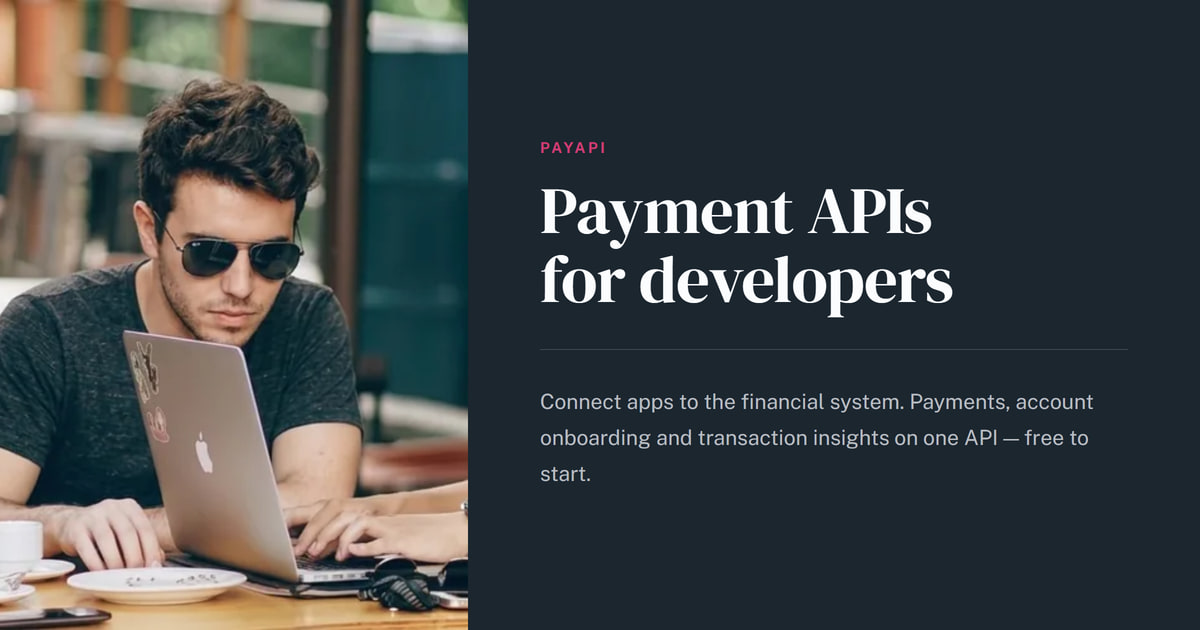
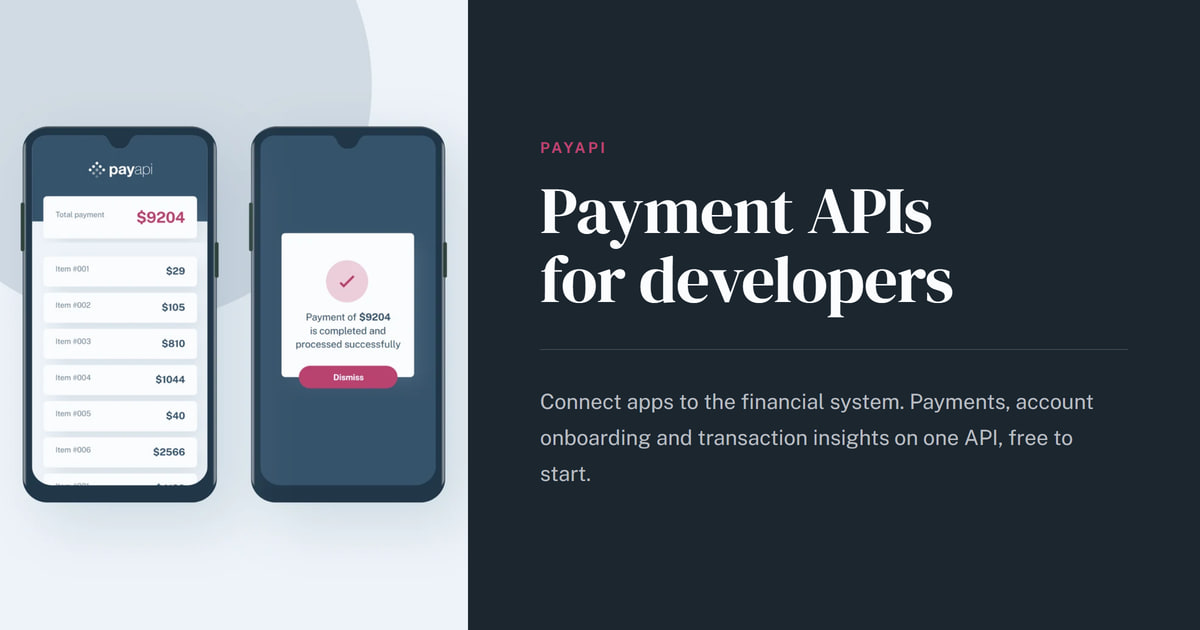
Refactor code structure for improved readability and maintainability

diff --git a/src/lib/metadata.ts b/src/lib/metadata.ts
@@ -7,7 +7,7 @@ const images = [
     url: "/opengraph-image.jpg",
     width: 1200,
     height: 630,
-    alt: "Three teammates working on a laptop, beside the headline “Payment APIs for developers”.",
+    alt: "Two phones showing the PayAPI checkout, an itemised payment total and a completed payment, beside the headline “Payment APIs for developers”.",
   },
 ];
 

diff --git a/README.md b/README.md
@@ -14,81 +14,6 @@ A solution to the [PayAPI multi-page website challenge on Frontend Mentor](https
 - TypeScript
 - Tailwind CSS
 
-## Notes
-
-**Every number came out of the design file, not a screenshot.** The `.fig` was parsed offline,
-so each spacing value, type size, fill and corner radius is the design's own. The four pages
-land within 2px of the design's total height at 375, 768 and 1440 — three of the twelve
-measurements are exact.
-
-**One container rule reproduces all three frames.** `max-w-297.5 px-6 md:px-10` gives 327 at
-375, 688 at 768 and 1110 from 1190 up. The max-width carries the padding, which is the part
-that is easy to get wrong: capping at the design's 1110 content width leaves 1030 once the
-40px gutters are subtracted.
-
-**Contrast was fixed by the minimum deviation that passes.** Seven of the design's ink/backdrop
-pairs fail WCAG AA — the muted body copy at 3.57:1, the field underline at 2.32:1, the
-unchecked checkbox at 1.48:1. Each was solved by holding hue and saturation and moving only
-lightness until the ratio cleared, so the palette still reads as the original. The checkbox
-also gained a 1px border, because a fill alone cannot carry a 3:1 boundary at that tone.
-
-**The backdrop for that sum is the decoration, not the page.** The muted ink is measured
-against the page tinted by the 15% disc behind it, `#d2dbe3`, not the bare `#edf3f8`; on the
-home page the disc sits behind the hero line and, at 768, behind the whole header. An
-automated audit cannot catch this — it reads background colour from ancestors, and the disc
-is an absolutely-positioned sibling — so every text box overlapping a disc is composited and
-scored directly. That is what puts the muted ink at `#51626f`: 4.50:1 over the disc, 5.64:1
-off it.
-
-**Availability in the pricing table is encoded twice.** An unavailable row is muted ink _and_
-a check mark whose stroke opacity is zero — the design keeps the node and hides it. Rendering
-that as colour alone would leave the state invisible to anyone who cannot see it, so the icon
-is genuinely absent and each row carries visually-hidden "included" / "not included" text.
-
-**Motion is CSS, with no animation library.** Section blocks rise on
-`animation-timeline: view()` and the decorative discs drift, both behind
-`prefers-reduced-motion: no-preference` and `@supports (animation-timeline: view())`, so a
-browser without view timelines renders the finished state rather than a blank box. Nothing
-animates on a hero, and the reveals move `translate` only — a fading `opacity` gets sampled
-mid-range by an auditor and reads as a contrast failure.
-
-**The statistics count once, on first sight.** A scroll-linked timeline is the wrong tool for
-a counter: it runs the number backwards when you scroll up, and re-runs it every time the
-block passes. So the count is an ordinary timed animation over a registered `@property` and a
-CSS counter, armed by a one-shot `IntersectionObserver` that disconnects on its first hit.
-Until it fires — and for anyone with JavaScript off or reduced motion on — the number renders
-at its final value, so nothing is ever missing.
-
-**The code sample's font is a 3.2 KB subset.** Roboto Mono is used for exactly one card, so
-only the 39 glyphs that block needs are self-hosted, and it is not preloaded because the card
-is below the fold on every breakpoint.
-
-**Forms validate on the client and do not post anywhere.** Errors are derived during render so
-they clear as you type, the first invalid control takes focus on submit, and the alert and
-status regions are keyed so a repeated identical message is announced again rather than
-swallowed.
-
-**Known deviations from the design, all deliberate:**
-
-- The hero phone sits 4px right of its drawn position. It is centred in the 445px column the
-  rest of the layout uses, which is a rule rather than a one-off offset.
-- The dark band's body copy wraps to six lines at 375px where the design shows five. The
-  design's own text box is 327px wide and the string cannot fit five lines at that width, so
-  the browser is right and the Figma box is stale.
-- The tablet page labels the third About block "Our Business", duplicating the second. Desktop
-  and mobile both say "The Culture", which is what ships.
-- The tablet contact aside reads "Join thousands of innovators"; mobile and desktop both read
-  "Join the thousands of innovators", which is what ships. Where the three frames disagree the
-  majority wins, the same rule as the About label above.
-- The contact form's Submit button sits 2px right of the form column in the desktop and tablet
-  frames — x=167 where every field in the same column starts at x=165. It ships flush with the
-  fields, since a 2px indent on one control is a stray nudge rather than a rule. Mobile already
-  agrees at x=24.
-- The mobile team photograph is a different picture in the supplied assets. It was replaced so
-  that all three breakpoints show the same people.
-- Social links point at `#`; the design specifies no destinations. The demo, access and submit
-  buttons route to `/contact`, which is the only place the site can actually take an enquiry.
-
 ## Author
 
 - [LinkedIn](https://www.linkedin.com/in/abdelrhman-vanta/)
